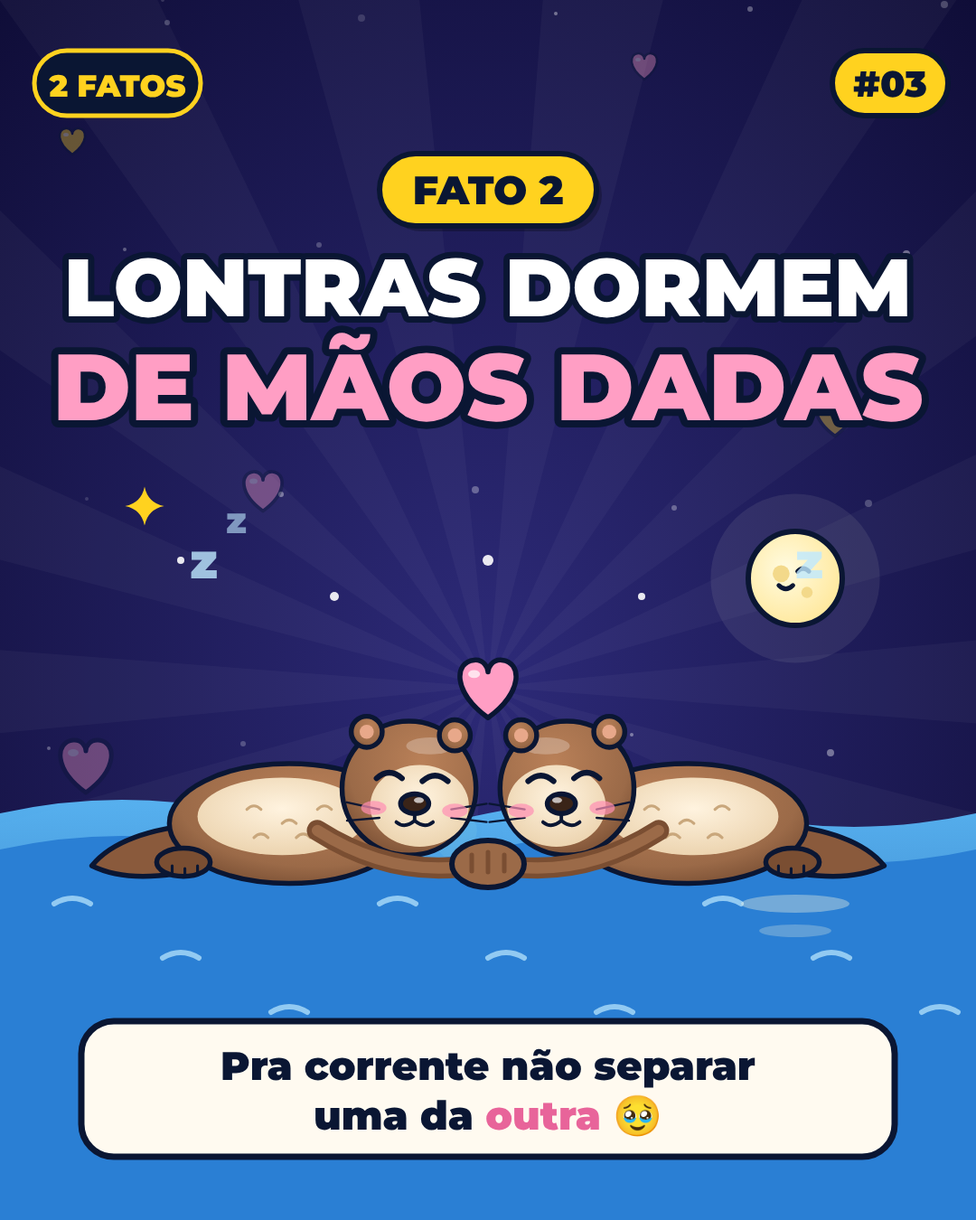
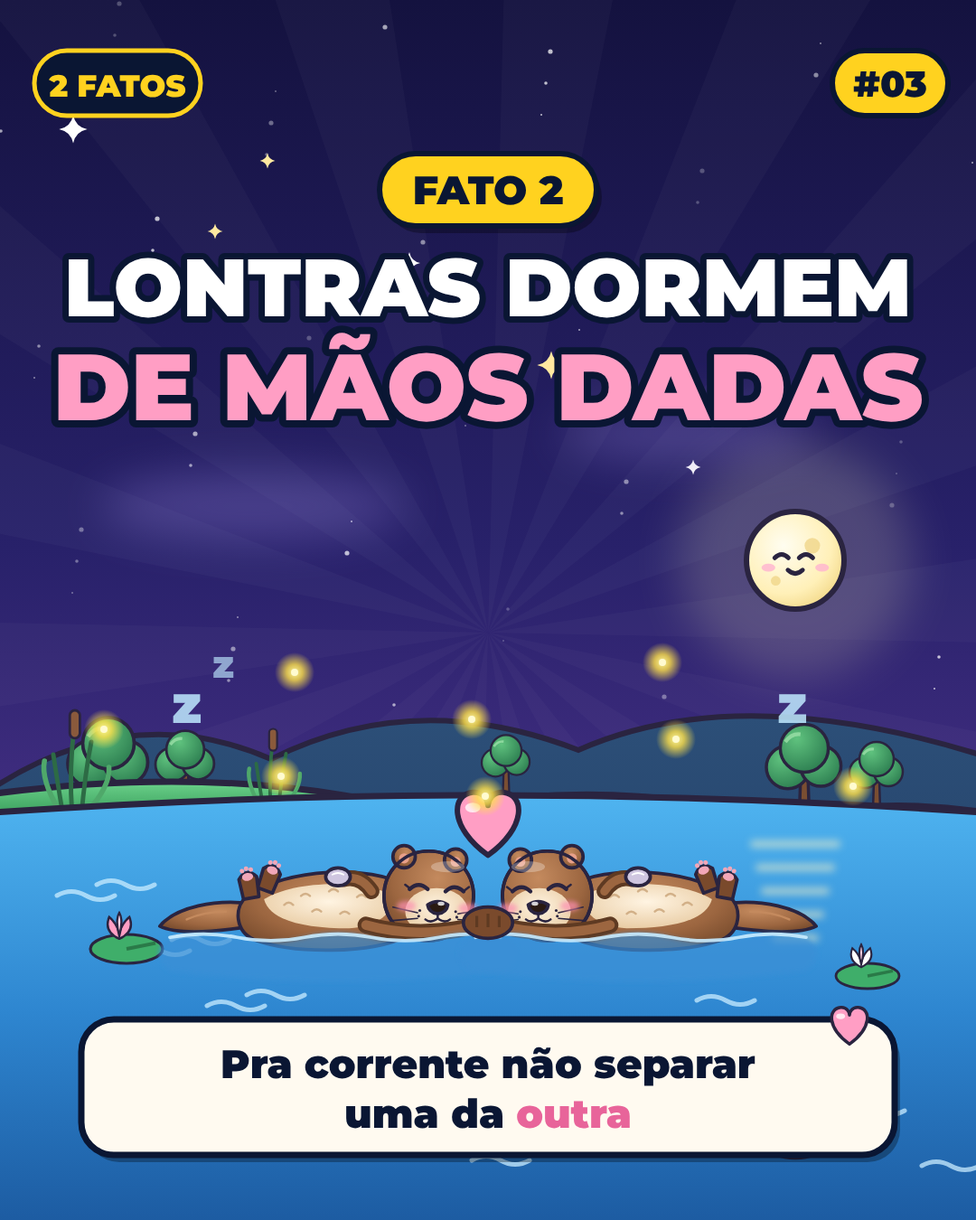
Carrossel fofinhos refeito com muito mais detalhe (paisagem noturna, vacas e lontras novas)
Claude-Session: https://claude.ai/code/session_01466fSmg3pKuf6zqbkMuRWf

diff --git a/carrosseis/01-fofinhos/gerar.js b/carrosseis/01-fofinhos/gerar.js
@@ -1,147 +1,183 @@
 const {chromium}=require('playwright');const fs=require('fs');
 const art=fs.readFileSync('/home/claude/oficina-remotion/src/art.js','utf8').replace(/export \{[^}]*\};?/,'');
 const font='data:font/woff2;base64,'+fs.readFileSync('/home/claude/oficina-remotion/public/fonts/mont900.woff2').toString('base64');
-const lib=`
-const W=1080,H=1350, PK='#ff9ec4', PKD='#e8649a', CR='#fff4e6', BLU='#7fd3ff';
-function fundo(seed){ let o=defsFofo()+'<defs><radialGradient id="cbg" cx=".5" cy=".55" r=".8"><stop offset="0" stop-color="#2d2a78"/><stop offset="1" stop-color="#0d0b33"/></radialGradient></defs><rect width="1080" height="1350" fill="url(#cbg)"/>';
-  for(let k=0;k<18;k++){const a=k*0.349+seed;o+='<path d="M540,760 L'+(540+Math.cos(a)*1600)+','+(760+Math.sin(a)*1600)+' L'+(540+Math.cos(a+0.17)*1600)+','+(760+Math.sin(a+0.17)*1600)+' Z" fill="#fff" opacity=".035"/>';}
-  for(let i=0;i<26;i++){const x=(i*173+seed*90)%1080,y=(i*271)%1350,r=2+i%3; o+='<circle cx="'+x+'" cy="'+y+'" r="'+r+'" fill="#fff" opacity="'+(.15+(i%4)*.08)+'"/>';}
-  for(let i=0;i<7;i++){const x=(i*211+60)%1040+20,y=(i*389+120)%1250+40,s=.5+(i%3)*.25; o+=coracao(x,y,s,i%2?PK:'#ffd21f',.35);}
-  return o; }
-function coracao(x,y,s,c,op=1){ return '<g transform="translate('+x+' '+y+') scale('+s+')" opacity="'+op+'"><path d="M0,22 C-36,-4 -34,-34 -14,-36 C-4,-37 0,-28 0,-24 C0,-28 4,-37 14,-36 C34,-34 36,-4 0,22 Z" fill="'+c+'" stroke="#0a1633" stroke-width="5" stroke-linejoin="round"/><ellipse cx="-14" cy="-22" rx="6" ry="4" fill="#fff" opacity=".7"/></g>'; }
-function canto(n){ return '<g transform="translate(985 92)"><rect x="-64" y="-36" width="128" height="72" rx="36" fill="#ffd21f" stroke="#0a1633" stroke-width="6"/><text y="15" font-family="M" font-weight="900" font-size="40" fill="#0a1633" text-anchor="middle">#'+n+'</text></g>'; }
-function marca(){ return '<g transform="translate(130 92)"><rect x="-92" y="-36" width="184" height="72" rx="36" fill="#0a1633" stroke="#ffd21f" stroke-width="5"/><text y="15" font-family="M" font-weight="900" font-size="34" fill="#ffd21f" text-anchor="middle">2 FATOS</text></g>'; }
-function pill(x,y,txt,bg,fg,sz=44,w){ w=w||txt.length*sz*.66+70; return '<g transform="translate('+x+' '+y+')"><rect x="'+(-w/2+6)+'" y="-34" width="'+w+'" height="80" rx="40" fill="#000" opacity=".25"/><rect x="'+(-w/2)+'" y="-40" width="'+w+'" height="80" rx="40" fill="'+bg+'" stroke="#0a1633" stroke-width="6"/><text y="'+(sz*.36)+'" font-family="M" font-weight="900" font-size="'+sz+'" fill="'+fg+'" text-anchor="middle">'+txt+'</text></g>'; }
-function seta(x,y){ return '<g transform="translate('+x+' '+y+')">'+fTxt(-30,14,'DESLIZA',44,'#fff','end',10)+'<path d="M0,0 h70 m-26,-26 l26,26 l-26,26" fill="none" stroke="#ffd21f" stroke-width="14" stroke-linecap="round" stroke-linejoin="round"/></g>'; }
-
-function defsFofo(){ return '<defs>'+
- '<radialGradient id="vBody" cx=".4" cy=".35" r=".75"><stop offset="0" stop-color="#ffffff"/><stop offset=".7" stop-color="#fbf4ec"/><stop offset="1" stop-color="#e6d8cc"/></radialGradient>'+
- '<radialGradient id="vSpot" cx=".35" cy=".3" r=".8"><stop offset="0" stop-color="#5a5276"/><stop offset="1" stop-color="#2a2540"/></radialGradient>'+
- '<radialGradient id="vSnout" cx=".45" cy=".35" r=".7"><stop offset="0" stop-color="#ffc4dc"/><stop offset=".7" stop-color="#ff9ec4"/><stop offset="1" stop-color="#ef7fae"/></radialGradient>'+
- '<radialGradient id="oFur" cx=".4" cy=".3" r=".8"><stop offset="0" stop-color="#b98058"/><stop offset=".7" stop-color="#9b6a48"/><stop offset="1" stop-color="#734a30"/></radialGradient>'+
- '<radialGradient id="oFace" cx=".5" cy=".4" r=".7"><stop offset="0" stop-color="#fff3df"/><stop offset="1" stop-color="#e9cfa8"/></radialGradient>'+
- '<linearGradient id="gGrass" x1="0" y1="0" x2="0" y2="1"><stop offset="0" stop-color="#6fd38a"/><stop offset="1" stop-color="#2f8f58"/></linearGradient>'+
- '<linearGradient id="gWater" x1="0" y1="0" x2="0" y2="1"><stop offset="0" stop-color="#5cc0ff"/><stop offset="1" stop-color="#1f5fb0"/></linearGradient>'+
- '<radialGradient id="gMoon" cx=".4" cy=".4" r=".6"><stop offset="0" stop-color="#fffbe0"/><stop offset="1" stop-color="#ffe9a0"/></radialGradient>'+
- '<radialGradient id="gGlow" cx=".5" cy=".5" r=".5"><stop offset="0" stop-color="#ff9ec4" stop-opacity=".35"/><stop offset="1" stop-color="#ff9ec4" stop-opacity="0"/></radialGradient>'+
+const lib=String.raw`
+const OL='#2a2440', PK='#ff9ec4', YL='#ffd21f';
+function R(n){ return Math.round(n*10)/10; }
+function defs(){ return '<defs>'+
+ '<linearGradient id="sky" x1="0" y1="0" x2="0" y2="1"><stop offset="0" stop-color="#14123f"/><stop offset=".45" stop-color="#28216a"/><stop offset=".75" stop-color="#4a3289"/><stop offset="1" stop-color="#7a4a9e"/></linearGradient>'+
+ '<filter id="b4" x="-50%" y="-50%" width="200%" height="200%"><feGaussianBlur stdDeviation="4"/></filter>'+
+ '<filter id="b10" x="-50%" y="-50%" width="200%" height="200%"><feGaussianBlur stdDeviation="10"/></filter>'+
+ '<filter id="b25" x="-50%" y="-50%" width="200%" height="200%"><feGaussianBlur stdDeviation="25"/></filter>'+
+ '<radialGradient id="moon" cx=".38" cy=".35" r=".7"><stop offset="0" stop-color="#fffdf0"/><stop offset=".7" stop-color="#fff0b8"/><stop offset="1" stop-color="#f3d98a"/></radialGradient>'+
+ '<linearGradient id="hFar" x1="0" y1="0" x2="0" y2="1"><stop offset="0" stop-color="#2c4f78"/><stop offset="1" stop-color="#1d3358"/></linearGradient>'+
+ '<linearGradient id="hMid" x1="0" y1="0" x2="0" y2="1"><stop offset="0" stop-color="#2f7d6a"/><stop offset="1" stop-color="#1f5a4c"/></linearGradient>'+
+ '<linearGradient id="hNear" x1="0" y1="0" x2="0" y2="1"><stop offset="0" stop-color="#6bd18a"/><stop offset=".5" stop-color="#43a865"/><stop offset="1" stop-color="#2d7f4b"/></linearGradient>'+
+ '<linearGradient id="water" x1="0" y1="0" x2="0" y2="1"><stop offset="0" stop-color="#4fb4f0"/><stop offset=".5" stop-color="#2e86d0"/><stop offset="1" stop-color="#1c5aa0"/></linearGradient>'+
+ '<linearGradient id="waterT" x1="0" y1="0" x2="0" y2="1"><stop offset="0" stop-color="#5cc0ff" stop-opacity=".85"/><stop offset="1" stop-color="#1c5aa0" stop-opacity=".95"/></linearGradient>'+
+ '<radialGradient id="tree" cx=".35" cy=".3" r=".8"><stop offset="0" stop-color="#5fc27e"/><stop offset="1" stop-color="#2a7a4e"/></radialGradient>'+
+ '<radialGradient id="cowW" cx=".38" cy=".3" r=".85"><stop offset="0" stop-color="#ffffff"/><stop offset=".6" stop-color="#f7f2f6"/><stop offset="1" stop-color="#d9cde4"/></radialGradient>'+
+ '<radialGradient id="cowS" cx=".35" cy=".3" r=".9"><stop offset="0" stop-color="#5d5580"/><stop offset="1" stop-color="#2a2440"/></radialGradient>'+
+ '<radialGradient id="cowP" cx=".45" cy=".3" r=".8"><stop offset="0" stop-color="#ffd3e4"/><stop offset=".6" stop-color="#ffa6c8"/><stop offset="1" stop-color="#ee7fae"/></radialGradient>'+
+ '<linearGradient id="horn" x1="0" y1="0" x2="1" y2="1"><stop offset="0" stop-color="#fff6d6"/><stop offset="1" stop-color="#e9c77e"/></linearGradient>'+
+ '<linearGradient id="hoof" x1="0" y1="0" x2="0" y2="1"><stop offset="0" stop-color="#8a6a5a"/><stop offset="1" stop-color="#4a3328"/></linearGradient>'+
+ '<radialGradient id="eye" cx=".4" cy=".35" r=".7"><stop offset="0" stop-color="#4a4070"/><stop offset="1" stop-color="#0d0b20"/></radialGradient>'+
+ '<radialGradient id="ofur" cx=".4" cy=".3" r=".85"><stop offset="0" stop-color="#c48a5e"/><stop offset=".6" stop-color="#9c6640"/><stop offset="1" stop-color="#6e4428"/></radialGradient>'+
+ '<radialGradient id="obel" cx=".5" cy=".4" r=".7"><stop offset="0" stop-color="#fff4e2"/><stop offset="1" stop-color="#e6c79c"/></radialGradient>'+
+ '<linearGradient id="wood" x1="0" y1="0" x2="0" y2="1"><stop offset="0" stop-color="#d9a46a"/><stop offset="1" stop-color="#a8733f"/></linearGradient>'+
+ '<radialGradient id="ff" cx=".5" cy=".5" r=".5"><stop offset="0" stop-color="#fff7a0"/><stop offset=".4" stop-color="#ffe14a" stop-opacity=".8"/><stop offset="1" stop-color="#ffe14a" stop-opacity="0"/></radialGradient>'+
+ '<radialGradient id="pglow" cx=".5" cy=".5" r=".5"><stop offset="0" stop-color="#ff9ec4" stop-opacity=".45"/><stop offset="1" stop-color="#ff9ec4" stop-opacity="0"/></radialGradient>'+
  '</defs>'; }
-function lua(x,y,r){ return '<circle cx="'+x+'" cy="'+y+'" r="'+(r*1.8)+'" fill="#fffbe0" opacity=".08"/><circle cx="'+x+'" cy="'+y+'" r="'+r+'" fill="url(#gMoon)" stroke="#0a1633" stroke-width="6"/><circle cx="'+(x-r*.3)+'" cy="'+(y-r*.1)+'" r="'+(r*.18)+'" fill="#f3d98a"/><circle cx="'+(x+r*.25)+'" cy="'+(y+r*.3)+'" r="'+(r*.12)+'" fill="#f3d98a"/><path d="M'+(x-r*.35)+','+(y+r*.15)+' q'+(r*.15)+','+(r*.15)+' '+(r*.3)+',0" fill="none" stroke="#0a1633" stroke-width="5" stroke-linecap="round"/><path d="M'+(x+r*.05)+','+(y-r*.15)+' q'+(r*.12)+','+(-r*.12)+' '+(r*.24)+',0" fill="none" stroke="#0a1633" stroke-width="5" stroke-linecap="round"/>'; }
-function brilho(x,y,s,c){ return '<path transform="translate('+x+' '+y+') scale('+s+')" d="M0,-24 Q4,-4 24,0 Q4,4 0,24 Q-4,4 -24,0 Q-4,-4 0,-24 Z" fill="'+c+'"/>'; }
-function flor(x,y,s,c){ let o='<g transform="translate('+x+' '+y+') scale('+s+')" stroke="#0a1633" stroke-width="4">'; for(let k=0;k<5;k++){const a=k*72*Math.PI/180; o+='<circle cx="'+(Math.cos(a)*14).toFixed(1)+'" cy="'+(Math.sin(a)*14).toFixed(1)+'" r="10" fill="'+c+'"/>';} return o+'<circle r="8" fill="#ffd21f"/></g>'; }
-function grama(y){ let o='<path d="M-20,'+(y+40)+' Q270,'+(y-40)+' 540,'+(y+10)+' T1100,'+(y-10)+' V1360 H-20 Z" fill="url(#gGrass)" stroke="#0a1633" stroke-width="7"/>';
- for(let i=0;i<40;i++){const x=(i*97)%1080, yy=y+40+(i*53)%220; o+='<path d="M'+x+','+yy+' l6,-22 l6,22" fill="none" stroke="#2a7a48" stroke-width="5" stroke-linecap="round"/>';}
- for(let i=0;i<9;i++) o+=flor((i*131+40)%1060,y+70+(i*71)%170,.9,['#ff9ec4','#ffffff','#bfe0ff'][i%3]);
+function ceu(seed){ let o='<rect width="1080" height="1350" fill="url(#sky)"/>';
+ for(let k=0;k<18;k++){const a=k*0.349+seed*.1; o+='<path d="M540,700 L'+R(540+Math.cos(a)*1700)+','+R(700+Math.sin(a)*1700)+' L'+R(540+Math.cos(a+0.17)*1700)+','+R(700+Math.sin(a+0.17)*1700)+' Z" fill="#fff" opacity=".028"/>';}
+ for(let i=0;i<60;i++){const x=(i*173+seed*61)%1080, y=(i*97+seed*37)%820; o+='<circle cx="'+x+'" cy="'+y+'" r="'+(1+i%3*.8)+'" fill="#fff" opacity="'+(.25+(i%5)*.12)+'"/>';}
+ for(let i=0;i<7;i++){const x=(i*157+seed*83+90)%1000+40, y=(i*113+seed*29)%600+120; o+=brilho(x,y,.35+(i%3)*.15,i%2?'#fff':'#ffe9a0');}
+ o+='<g filter="url(#b25)" opacity=".35"><ellipse cx="'+(200+seed*40)+'" cy="560" rx="170" ry="38" fill="#8a7ad0"/><ellipse cx="'+(820-seed*30)+'" cy="480" rx="140" ry="30" fill="#8a7ad0"/></g>';
  return o; }
-function cerca(y){ let o='<g stroke="#0a1633" stroke-width="6" fill="#d9a46a">'; for(let x=20;x<1080;x+=130) o+='<rect x="'+x+'" y="'+(y-90)+'" width="34" height="110" rx="8"/>'; o+='<rect x="0" y="'+(y-70)+'" width="1080" height="20" rx="8"/><rect x="0" y="'+(y-30)+'" width="1080" height="20" rx="8"/></g>'; return o; }
-
-// vaca fofinha (cx,cy,s, dir 1/-1, olhos: 'aberto'|'feliz')
-function vaca(cx,cy,s,dir=1,olhos='aberto',lenco=null){
-  let o='<g transform="translate('+cx+' '+cy+') scale('+(s*dir)+' '+s+')" stroke="#0a1633" stroke-width="7" stroke-linejoin="round" stroke-linecap="round">';
-  // corpo
-  o+='<path d="M-190,240 q-40,40 -70,20 q-10,-30 20,-40" fill="none" stroke-width="7"/><path d="M-262,262 q-24,-6 -20,-26 q18,4 20,26 Z" fill="#3a3550"/><ellipse cx="-10" cy="230" rx="185" ry="140" fill="url(#vBody)"/><path d="M-150,280 q140,60 290,0" fill="none" stroke="#e6d8cc" stroke-width="10" opacity=".8"/><path d="M-120,170 q40,-30 70,10 q-10,50 -60,40 q-30,-20 -10,-50 Z" fill="url(#vSpot)"/><path d="M60,260 q40,-20 60,20 q-20,40 -60,20 Z" fill="url(#vSpot)"/>';
-  o+='<rect x="-130" y="320" width="60" height="70" rx="26" fill="url(#vBody)"/><rect x="40" y="320" width="60" height="70" rx="26" fill="url(#vBody)"/><rect x="-130" y="360" width="60" height="30" rx="12" fill="#6b5a4e"/><rect x="40" y="360" width="60" height="30" rx="12" fill="#6b5a4e"/><path d="M-100,362 v26 M70,362 v26" stroke-width="5"/><rect x="-122" y="364" width="14" height="8" rx="4" fill="#a08878" stroke="none"/><rect x="48" y="364" width="14" height="8" rx="4" fill="#a08878" stroke="none"/>';
-  o+='<ellipse cx="0" cy="300" rx="60" ry="30" fill="url(#vSnout)"/><circle cx="-22" cy="318" r="7" fill="url(#vSnout)"/><circle cx="0" cy="324" r="7" fill="url(#vSnout)"/><circle cx="22" cy="318" r="7" fill="url(#vSnout)"/>';
-  // orelhas e chifres
-  o+='<path d="M-150,-40 q-90,-10 -100,40 q60,20 110,-10 Z" fill="#fffaf2"/><path d="M-160,-30 q-60,0 -70,30 q40,10 75,-10 Z" fill="'+PK+'" stroke="none"/>';
-  o+='<path d="M150,-40 q90,-10 100,40 q-60,20 -110,-10 Z" fill="#fffaf2"/><path d="M160,-30 q60,0 70,30 q-40,10 -75,-10 Z" fill="'+PK+'" stroke="none"/>';
-  o+='<path d="M-80,-120 q-20,-50 10,-70 q10,40 20,60 Z" fill="#ffe39a"/><path d="M80,-120 q20,-50 -10,-70 q-10,40 -20,60 Z" fill="#ffe39a"/>';
-  // cabeça
-  o+='<rect x="-160" y="-140" width="320" height="270" rx="130" fill="url(#vBody)"/><ellipse cx="-60" cy="-100" rx="60" ry="22" fill="#fff" opacity=".8" stroke="none"/>';
-  o+='<path d="M60,-136 q70,10 90,70 q-50,30 -90,-10 q-20,-40 0,-60 Z" fill="url(#vSpot)"/><path d="M-30,-140 q-20,-10 -50,0 q20,30 50,0 Z" fill="url(#vSpot)"/><ellipse cx="96" cy="-104" rx="16" ry="8" fill="#fff" opacity=".25" stroke="none"/>';
-  o+='<path d="M-20,-150 q20,-40 40,0" fill="none" stroke-width="6"/><path d="M0,-152 q10,-30 30,-10" fill="none" stroke-width="6"/>';
-  // focinho
-  o+='<ellipse cx="0" cy="70" rx="130" ry="78" fill="url(#vSnout)"/><ellipse cx="-30" cy="38" rx="44" ry="14" fill="#fff" opacity=".5" stroke="none"/><ellipse cx="-45" cy="70" rx="16" ry="22" fill="'+PKD+'"/><ellipse cx="45" cy="70" rx="16" ry="22" fill="'+PKD+'"/>';
-  o+='<path d="M-30,118 q30,22 60,0" fill="none" stroke-width="6"/>';
-  // olhos
-  if(olhos==='feliz') o+='<path d="M-110,-30 q35,-36 70,0" fill="none" stroke-width="11"/><path d="M40,-30 q35,-36 70,0" fill="none" stroke-width="11"/><path d="M-112,-32 l-14,-8 M-104,-44 l-10,-12 M108,-32 l14,-8 M100,-44 l10,-12" stroke-width="5"/>';
-  else o+='<ellipse cx="-75" cy="-30" rx="30" ry="36" fill="#0a1633"/><ellipse cx="75" cy="-30" rx="30" ry="36" fill="#0a1633"/><circle cx="-64" cy="-44" r="11" fill="#fff" stroke="none"/><circle cx="86" cy="-44" r="11" fill="#fff" stroke="none"/><circle cx="-84" cy="-18" r="5" fill="#fff" stroke="none"/><circle cx="66" cy="-18" r="5" fill="#fff" stroke="none"/>';
-  o+='<ellipse cx="-120" cy="20" rx="28" ry="16" fill="#ff7aa8" opacity=".6" stroke="none"/><ellipse cx="120" cy="20" rx="28" ry="16" fill="#ff7aa8" opacity=".6" stroke="none"/>';
-  // sininho / lenço
-  if(lenco) o+='<path d="M-110,130 q110,60 220,0 l-30,60 q-80,30 -160,0 Z" fill="'+lenco+'"/><path d="M-80,160 q80,36 160,0" fill="none" stroke="#fff" stroke-width="5" stroke-dasharray="10 12" opacity=".8"/><circle cx="0" cy="205" r="16" fill="'+lenco+'"/>';
-  else o+='<path d="M-60,140 q60,26 120,0" fill="none" stroke="#c9a227" stroke-width="12"/><circle cx="0" cy="175" r="30" fill="#ffd21f"/><circle cx="0" cy="186" r="7" fill="#0a1633" stroke="none"/>';
-  return o+'</g>'; }
-// lontra fofinha a flutuar de barriga para cima
-function lontra(cx,cy,s,dir=1,maoX=0){
-  let o='<g transform="translate('+cx+' '+cy+') scale('+(s*dir)+' '+s+')" stroke="#0a1633" stroke-width="7" stroke-linejoin="round" stroke-linecap="round">';
-  o+='<path d="M120,40 q120,10 160,60 q-60,30 -170,0 Z" fill="#8a5a3c"/>';
-  o+='<ellipse cx="0" cy="40" rx="170" ry="85" fill="url(#oFur)"/><ellipse cx="10" cy="30" rx="120" ry="55" fill="url(#oFace)" stroke="none"/><path d="M-60,20 q10,-10 20,0 M-10,40 q10,-10 20,0 M40,20 q10,-10 20,0 M-30,60 q10,-10 20,0 M30,60 q10,-10 20,0" fill="none" stroke="#c9a77c" stroke-width="4"/>';
-  o+='<ellipse cx="150" cy="95" rx="38" ry="20" fill="#7a4e32"/><path d="M130,100 v10 M148,104 v10 M166,100 v10" stroke-width="4"/>';
-  // cabeça
-  o+='<circle cx="-170" cy="-10" r="95" fill="url(#oFur)"/><ellipse cx="-185" cy="15" rx="70" ry="58" fill="url(#oFace)" stroke="none"/><ellipse cx="-200" cy="-70" rx="34" ry="12" fill="#fff" opacity=".25" stroke="none"/>';
-  o+='<circle cx="-235" cy="-85" r="22" fill="url(#oFur)"/><circle cx="-235" cy="-85" r="10" fill="#e8a88a" stroke="none"/><circle cx="-110" cy="-90" r="22" fill="url(#oFur)"/><circle cx="-110" cy="-90" r="10" fill="#e8a88a" stroke="none"/>';
-  o+='<path d="M-225,-20 q18,-16 36,0" fill="none" stroke-width="8"/><path d="M-160,-24 q18,-16 36,0" fill="none" stroke-width="8"/>';
-  o+='<ellipse cx="-178" cy="12" rx="20" ry="14" fill="#3a2418"/><ellipse cx="-184" cy="7" rx="7" ry="4" fill="#fff" opacity=".7" stroke="none"/><path d="M-178,26 v10 m0,0 q-14,12 -26,2 m26,-2 q14,12 26,2" fill="none" stroke-width="5"/>';
-  o+='<path d="M-230,20 l-50,-8 M-230,32 l-50,6 M-128,20 l46,-10 M-128,32 l46,4" stroke-width="3"/>';
-  o+='<ellipse cx="-235" cy="22" rx="18" ry="10" fill="#ff8fb4" opacity=".7" stroke="none"/><ellipse cx="-120" cy="18" rx="18" ry="10" fill="#ff8fb4" opacity=".7" stroke="none"/>';
-  if(maoX===-999){ o+='<path d="M-40,50 Q-150,120 -268,98" fill="none" stroke="#7a4e32" stroke-width="30"/><path d="M-40,50 Q-150,120 -268,98" fill="none" stroke="#9b6a48" stroke-width="16"/>'; return o+'</g>'; }
-  o+='<path d="M-70,-10 q'+(20+maoX)+',-60 '+(50+maoX)+',-70" fill="none" stroke="#7a4e32" stroke-width="30"/><path d="M-70,-10 q'+(20+maoX)+',-60 '+(50+maoX)+',-70" fill="none" stroke="#9b6a48" stroke-width="16"/>';
-  return o+'</g>'; }
-function agua(y,t){ let o='<path d="M0,'+y+' Q135,'+(y-30)+' 270,'+y+' T540,'+y+' T810,'+y+' T1080,'+y+' V1350 H0 Z" fill="url(#gWater)" opacity=".9"/><path d="M0,'+(y+40)+' Q135,'+(y+10)+' 270,'+(y+40)+' T540,'+(y+40)+' T810,'+(y+40)+' T1080,'+(y+40)+' V1350 H0 Z" fill="#2a7fd4"/>';
-  for(let i=0;i<9;i++) o+='<path d="M'+(60+i*120)+','+(y+100+(i%3)*60)+' q20,-12 40,0" fill="none" stroke="#bfe9ff" stroke-width="6" stroke-linecap="round" opacity=".7"/>';
-  return o; }
+function brilho(x,y,s,c){ return '<path transform="translate('+x+' '+y+') scale('+s+')" d="M0,-24 Q4,-4 24,0 Q4,4 0,24 Q-4,4 -24,0 Q-4,-4 0,-24 Z" fill="'+c+'"/>'; }
+function lua(x,y,r){ return '<circle cx="'+x+'" cy="'+y+'" r="'+(r*2.4)+'" fill="#fff4c0" opacity=".18" filter="url(#b25)"/><circle cx="'+x+'" cy="'+y+'" r="'+r+'" fill="url(#moon)" stroke="'+OL+'" stroke-width="6"/><circle cx="'+R(x+r*.35)+'" cy="'+R(y-r*.3)+'" r="'+R(r*.16)+'" fill="#f0d68a" opacity=".8"/><circle cx="'+R(x-r*.4)+'" cy="'+R(y+r*.42)+'" r="'+R(r*.1)+'" fill="#f0d68a" opacity=".8"/><path d="M'+R(x-r*.42)+','+R(y-r*.05)+' q'+R(r*.14)+','+R(-r*.14)+' '+R(r*.28)+',0 M'+R(x+r*.08)+','+R(y-r*.05)+' q'+R(r*.14)+','+R(-r*.14)+' '+R(r*.28)+',0" fill="none" stroke="'+OL+'" stroke-width="5" stroke-linecap="round"/><path d="M'+R(x-r*.15)+','+R(y+r*.2)+' q'+R(r*.15)+','+R(r*.14)+' '+R(r*.3)+',0" fill="none" stroke="'+OL+'" stroke-width="5" stroke-linecap="round"/><ellipse cx="'+R(x-r*.55)+'" cy="'+R(y+r*.15)+'" rx="'+R(r*.14)+'" ry="'+R(r*.08)+'" fill="#ffb3cf" opacity=".8"/><ellipse cx="'+R(x+r*.55)+'" cy="'+R(y+r*.15)+'" rx="'+R(r*.14)+'" ry="'+R(r*.08)+'" fill="#ffb3cf" opacity=".8"/>'; }
+function arvore(x,y,s){ return '<g transform="translate('+x+' '+y+') scale('+s+')" stroke="'+OL+'" stroke-width="5"><path d="M-8,0 L-6,-60 L6,-60 L8,0 Z" fill="#7a4e32"/><circle cx="-26" cy="-80" r="34" fill="url(#tree)"/><circle cx="26" cy="-82" r="32" fill="url(#tree)"/><circle cx="0" cy="-110" r="38" fill="url(#tree)"/><path d="M-30,-120 q10,-14 24,-12" fill="none" stroke="#9be0a8" stroke-width="6" opacity=".8"/></g>'; }
+function vagalumes(seed,n=12,y0=760,y1=1200){ let o=''; for(let i=0;i<n;i++){const x=(i*211+seed*97)%1040+20, y=y0+((i*137+seed*53)%(y1-y0)); o+='<circle cx="'+x+'" cy="'+y+'" r="22" fill="url(#ff)"/><circle cx="'+x+'" cy="'+y+'" r="4" fill="#fffbd0"/>';} return o; }
+function montes(){ let o='<path d="M-20,880 Q140,770 300,840 Q460,760 640,830 Q820,750 1100,840 V1360 H-20 Z" fill="url(#hFar)" stroke="'+OL+'" stroke-width="6"/>';
+ o+='<path d="M-20,930 Q200,840 420,910 Q640,850 860,905 Q980,880 1100,900 V1360 H-20 Z" fill="url(#hMid)" stroke="'+OL+'" stroke-width="6"/>';
+ o+=arvore(120,905,.75)+arvore(205,890,.55)+arvore(890,905,.7)+arvore(970,895,.5)+arvore(560,880,.45);
+ return o; }
+function relva(path){ return '<path d="'+path+'" fill="url(#hNear)" stroke="'+OL+'" stroke-width="7"/>'; }
+function folhas(x0,x1,y0,y1,n,seed){ let o=''; const C=['#2d7f4b','#3c9a5c','#5cc078']; for(let i=0;i<n;i++){const x=x0+((i*97+seed*31)%(x1-x0)), y=y0+((i*53+seed*17)%(y1-y0)); const h=14+(i%4)*5; o+='<path d="M'+x+','+y+' q'+(-3+(i%3)*3)+','+(-h)+' '+(2+(i%2)*3)+','+(-h-6)+' M'+(x+6)+','+y+' q'+(4)+','+(-h*.8)+' '+(10)+','+(-h)+'" fill="none" stroke="'+C[i%3]+'" stroke-width="4" stroke-linecap="round"/>';} return o; }
+function flor(x,y,s,c){ let o='<g transform="translate('+x+' '+y+') scale('+s+')"><path d="M0,10 q-4,24 2,40" stroke="#2d7f4b" stroke-width="5" fill="none"/><path d="M0,30 q-18,-6 -22,6 q12,8 22,-6 Z" fill="#4fb06e" stroke="'+OL+'" stroke-width="3"/>'; for(let k=0;k<6;k++){const a=k*60*Math.PI/180; o+='<ellipse cx="'+R(Math.cos(a)*13)+'" cy="'+R(Math.sin(a)*13)+'" rx="10" ry="7" transform="rotate('+(k*60)+' '+R(Math.cos(a)*13)+' '+R(Math.sin(a)*13)+')" fill="'+c+'" stroke="'+OL+'" stroke-width="3"/>';} return o+'<circle r="8" fill="'+YL+'" stroke="'+OL+'" stroke-width="3"/><circle cx="-2" cy="-2" r="3" fill="#fff" opacity=".8"/></g>'; }
+function pedra(x,y,s){ return '<g transform="translate('+x+' '+y+') scale('+s+')"><path d="M-40,10 Q-38,-26 0,-30 Q40,-28 44,6 Q30,22 -30,22 Z" fill="#8c86a8" stroke="'+OL+'" stroke-width="5"/><path d="M-20,-18 q16,-8 32,-2" fill="none" stroke="#c9c4df" stroke-width="5" stroke-linecap="round"/></g>'; }
+function junco(x,y,s){ return '<g transform="translate('+x+' '+y+') scale('+s+')" stroke-linecap="round"><path d="M0,0 Q-6,-80 4,-150 M14,0 Q20,-70 30,-120 M-14,0 Q-24,-60 -30,-100" fill="none" stroke="#2d6b45" stroke-width="7"/><rect x="-4" y="-170" width="16" height="44" rx="8" fill="#8a5a3c" stroke="'+OL+'" stroke-width="4"/><path d="M-20,-10 Q-50,-60 -44,-90 M24,-10 Q60,-50 58,-80" fill="none" stroke="#4fa86a" stroke-width="8"/></g>'; }
+function nenufar(x,y,s,florC){ let o='<g transform="translate('+x+' '+y+') scale('+s+')"><path d="M0,0 m-50,0 a50,20 0 1,0 100,0 a50,20 0 1,0 -100,0 Z" fill="#3fae6a" stroke="'+OL+'" stroke-width="4"/><path d="M0,0 L40,-8" stroke="#2a7a48" stroke-width="5"/>'; if(florC) o+='<g transform="translate(-10 -14)"><path d="M0,0 Q-22,-10 -14,-30 Q-4,-22 0,-8 Q4,-22 14,-30 Q22,-10 0,0 Z" fill="'+florC+'" stroke="'+OL+'" stroke-width="3"/><path d="M0,-4 Q-6,-26 0,-36 Q6,-26 0,-4 Z" fill="#ffd3e4" stroke="'+OL+'" stroke-width="3"/></g>'; return o+'</g>'; }
+function coracao(x,y,s,c,op=1){ return '<g transform="translate('+x+' '+y+') scale('+s+')" opacity="'+op+'"><path d="M0,22 C-36,-4 -34,-34 -14,-36 C-4,-37 0,-28 0,-24 C0,-28 4,-37 14,-36 C34,-34 36,-4 0,22 Z" fill="'+c+'" stroke="'+OL+'" stroke-width="5" stroke-linejoin="round"/><ellipse cx="-14" cy="-22" rx="7" ry="4.5" fill="#fff" opacity=".75"/></g>'; }
+// ---------- VACA ----------
+function vaca(cx,cy,s,dir=1,o2={}){ const hr=o2.hr||0, lenco=o2.lenco||null, coroa=o2.coroa||false, olho=o2.olho||'feliz';
+ let o='<g transform="translate('+cx+' '+cy+') scale('+(s*dir)+' '+s+')" stroke="'+OL+'" stroke-width="6" stroke-linejoin="round" stroke-linecap="round">';
+ o+='<ellipse cx="0" cy="345" rx="190" ry="26" fill="#000" opacity=".28" stroke="none" filter="url(#b10)"/>';
+ // cauda
+ o+='<path d="M140,140 C200,120 230,60 210,20" fill="none" stroke-width="10"/><path d="M140,140 C200,120 230,60 210,20" fill="none" stroke="#f3eef7" stroke-width="4"/><path d="M196,26 C188,-6 222,-16 232,8 C240,26 222,40 210,30 Z" fill="url(#cowS)"/>';
+ // pernas traseiras
+ o+='<rect x="-150" y="215" width="54" height="110" rx="24" fill="#d9cde4"/><rect x="96" y="215" width="54" height="110" rx="24" fill="#d9cde4"/><path d="M-150,300 h54 v14 q0,14 -14,14 h-26 q-14,0 -14,-14 Z" fill="url(#hoof)"/><path d="M96,300 h54 v14 q0,14 -14,14 h-26 q-14,0 -14,-14 Z" fill="url(#hoof)"/>';
+ // corpo
+ o+='<path d="M-155,70 C-180,190 -130,300 0,302 C130,300 180,190 155,70 C120,10 -120,10 -155,70 Z" fill="url(#cowW)"/>';
+ o+='<path d="M-140,120 C-120,90 -80,100 -78,130 C-76,170 -120,180 -136,160 Z" fill="url(#cowS)"/><path d="M70,190 C100,170 140,180 140,210 C140,240 100,248 80,232 C64,220 60,200 70,190 Z" fill="url(#cowS)"/>';
+ o+='<ellipse cx="0" cy="235" rx="62" ry="34" fill="#f0e6f2" stroke="none"/><path d="M-120,230 q120,70 240,0" fill="none" stroke="#d9cde4" stroke-width="6" opacity=".8"/>';
+ o+='<path d="M-60,95 q-30,40 -20,90" fill="none" stroke="#fff" stroke-width="10" opacity=".6"/>';
+ // pernas da frente
+ for(const lx of [-72,72]){ o+='<rect x="'+(lx-30)+'" y="235" width="60" height="100" rx="26" fill="url(#cowW)"/><path d="M'+(lx-30)+',304 h60 v14 q0,16 -16,16 h-28 q-16,0 -16,-16 Z" fill="url(#hoof)"/><path d="M'+lx+',306 v28" stroke-width="5"/><path d="M'+(lx-20)+',310 h12" stroke="#c9a898" stroke-width="5"/>'; }
+ // lenço/sino
+ if(lenco) o+='<path d="M-118,38 Q0,98 118,38 L96,96 Q0,140 -96,96 Z" fill="'+lenco+'"/><path d="M-96,62 Q0,112 96,62" fill="none" stroke="#fff" stroke-width="5" stroke-dasharray="10 12" opacity=".85"/><path d="M-14,118 l-26,46 l34,-8 Z M14,118 l26,46 l-34,-8 Z" fill="'+lenco+'"/><circle cx="0" cy="118" r="18" fill="'+lenco+'"/><circle cx="-6" cy="112" r="5" fill="#fff" opacity=".7" stroke="none"/>';
+ else o+='<path d="M-110,40 Q0,96 110,40" fill="none" stroke="#c0392b" stroke-width="14"/><path d="M-26,86 Q-28,140 0,142 Q28,140 26,86 Q0,76 -26,86 Z" fill="'+YL+'"/><circle cx="0" cy="138" r="7" fill="'+OL+'"/><path d="M-12,96 q-4,20 2,34" fill="none" stroke="#fff6c0" stroke-width="5"/>';
+ // cabeça
+ o+='<g transform="rotate('+hr+' 0 0)">';
+ // orelhas
+ for(const sx of [-1,1]){ o+='<g transform="translate('+(sx*168)+' -150) rotate('+(sx*-22)+')"><ellipse rx="62" ry="27" fill="url(#cowW)"/><ellipse cx="'+(sx*6)+'" rx="42" ry="14" fill="url(#cowP)" stroke="none"/></g>'; }
+ // chifres
+ for(const sx of [-1,1]){ o+='<g transform="scale('+sx+' 1)"><path d="M-92,-226 C-118,-270 -96,-312 -62,-304 C-74,-284 -72,-258 -58,-238 Z" fill="url(#horn)"/><path d="M-96,-262 q16,6 30,0 M-90,-282 q12,5 24,0" fill="none" stroke="#c9a85a" stroke-width="4"/></g>'; }
+ o+='<path d="M-150,-120 C-162,-212 -92,-252 0,-252 C92,-252 162,-212 150,-120 C150,-38 108,12 0,14 C-108,12 -150,-38 -150,-120 Z" fill="url(#cowW)"/>';
+ o+='<path d="M54,-246 C110,-238 150,-200 148,-150 C120,-140 80,-150 64,-180 C52,-204 40,-230 54,-246 Z" fill="url(#cowS)"/><path d="M-120,-200 C-104,-214 -80,-206 -84,-186 C-90,-170 -114,-172 -120,-184 Z" fill="url(#cowS)"/>';
+ o+='<ellipse cx="-62" cy="-214" rx="46" ry="14" fill="#fff" opacity=".85" stroke="none"/>';
+ // franja
+ o+='<path d="M-34,-246 C-40,-282 -6,-292 2,-266 C8,-292 44,-288 36,-252 C26,-232 -26,-230 -34,-246 Z" fill="url(#cowS)"/><path d="M-14,-266 q8,-10 16,-4" fill="none" stroke="#8a80b0" stroke-width="4"/>';
+ if(coroa){ for(let k=0;k<5;k++){const a=(-150+k*30)*Math.PI/180; o+=flor(R(Math.cos(a)*150),R(-140+Math.sin(a)*110),.9,['#ffffff','#ff9ec4','#bfe0ff','#ffffff','#ff9ec4'][k]);} }
+ // olhos
+ if(olho==='feliz'){ for(const ex of [-60,60]){ o+='<path d="M'+(ex-30)+',-112 Q'+ex+',-150 '+(ex+30)+',-112" fill="none" stroke-width="11"/><path d="M'+(ex-32)+',-114 l-12,-10 M'+(ex-24)+',-128 l-8,-14 M'+(ex+32)+',-114 l12,-10 M'+(ex+24)+',-128 l8,-14" stroke-width="5"/>'; } }
+ else { for(const ex of [-60,60]){ o+='<ellipse cx="'+ex+'" cy="-118" rx="28" ry="34" fill="url(#eye)"/><circle cx="'+(ex+9)+'" cy="-132" r="11" fill="#fff" stroke="none"/><circle cx="'+(ex-9)+'" cy="-104" r="5" fill="#fff" stroke="none"/><path d="M'+(ex-22)+',-160 q22,-12 44,0" fill="none" stroke-width="6"/>'; } }
+ o+='<ellipse cx="-112" cy="-72" rx="30" ry="17" fill="#ff8fb8" opacity=".65" stroke="none" filter="url(#b4)"/><ellipse cx="112" cy="-72" rx="30" ry="17" fill="#ff8fb8" opacity=".65" stroke="none" filter="url(#b4)"/>';
+ // focinho
+ o+='<ellipse cx="0" cy="-36" rx="112" ry="62" fill="url(#cowP)"/><ellipse cx="-26" cy="-74" rx="52" ry="14" fill="#fff" opacity=".6" stroke="none"/>';
+ o+='<ellipse cx="-40" cy="-42" rx="14" ry="19" fill="#d65a8c"/><ellipse cx="40" cy="-42" rx="14" ry="19" fill="#d65a8c"/><ellipse cx="-42" cy="-38" rx="6" ry="9" fill="#9e2f5e" stroke="none"/><ellipse cx="38" cy="-38" rx="6" ry="9" fill="#9e2f5e" stroke="none"/>';
+ o+='<path d="M-30,-6 Q0,18 30,-6" fill="none" stroke-width="6"/><path d="M-12,4 Q0,20 12,4" fill="#ff6f9c" stroke-width="4"/>';
+ o+='</g>';
+ return o+'</g>'; }
+// ---------- LONTRA (a flutuar de barriga para cima; cabeça à esquerda; dir=-1 vira) ----------
+function lontra(cx,cy,s,dir=1,o2={}){ const mao=o2.mao||'dada', agua=o2.agua!==false;
+ let o='<g transform="translate('+cx+' '+cy+') scale('+(s*dir)+' '+s+')" stroke="'+OL+'" stroke-width="6" stroke-linejoin="round" stroke-linecap="round">';
+ o+='<path d="M140,-6 C220,-20 292,0 318,32 C286,48 212,42 140,30 Z" fill="url(#ofur)"/><path d="M200,6 q40,0 70,14" fill="none" stroke="#c48a5e" stroke-width="4"/>';
+ o+='<path d="M-120,-40 C-60,-78 92,-72 162,-22 C188,0 182,42 150,56 C80,82 -60,82 -122,50 Z" fill="url(#ofur)"/>';
+ o+='<path d="M-100,-22 C-40,-54 82,-48 132,-16 C122,22 60,36 -20,36 C-70,32 -100,10 -100,-22 Z" fill="url(#obel)" stroke="none"/>';
+ for(const [fx,fy] of [[-50,-20],[0,-30],[50,-22],[-20,10],[30,6],[80,-6]]) o+='<path d="M'+fx+','+fy+' q8,-8 16,0" fill="none" stroke="#d2b088" stroke-width="4"/>';
+ // patas de trás levantadas
+ for(const [px,py,r] of [[120,-60,-20],[160,-48,10]]){ o+='<g transform="translate('+px+' '+py+') rotate('+r+')"><path d="M-14,30 L-16,-6 Q0,-26 16,-6 L14,30 Z" fill="#7a4a2c"/><ellipse cx="0" cy="-8" rx="10" ry="7" fill="#f2a7b8" stroke="none"/><circle cx="-8" cy="-20" r="4" fill="#f2a7b8" stroke="none"/><circle cx="0" cy="-23" r="4" fill="#f2a7b8" stroke="none"/><circle cx="8" cy="-20" r="4" fill="#f2a7b8" stroke="none"/></g>'; }
+ // cabeça
+ o+='<circle cx="-162" cy="-22" r="80" fill="url(#ofur)"/>';
+ for(const [ex,ey] of [[-210,-86],[-118,-92]]) o+='<circle cx="'+ex+'" cy="'+ey+'" r="20" fill="url(#ofur)"/><circle cx="'+ex+'" cy="'+(ey+3)+'" r="9" fill="#e8a08a" stroke="none"/>';
+ o+='<circle cx="-162" cy="-22" r="80" fill="none"/>';
+ o+='<ellipse cx="-176" cy="6" rx="56" ry="42" fill="url(#obel)" stroke="none"/><ellipse cx="-196" cy="-74" rx="30" ry="10" fill="#fff" opacity=".28" stroke="none"/>';
+ o+='<path d="M-224,-30 q16,-15 32,0 M-160,-34 q16,-15 32,0" fill="none" stroke-width="7"/><path d="M-226,-32 l-8,-6 M-128,-36 l8,-6" stroke-width="4"/>';
+ o+='<path d="M-196,-6 Q-178,-18 -160,-6 Q-162,8 -178,10 Q-194,8 -196,-6 Z" fill="#2a1a12"/><ellipse cx="-184" cy="-8" rx="6" ry="3.5" fill="#fff" opacity=".8" stroke="none"/>';
+ o+='<path d="M-178,10 v8 M-178,18 q-12,10 -22,2 M-178,18 q12,10 22,2" fill="none" stroke-width="4"/>';
+ for(const [dx,dy] of [[-210,6],[-212,16],[-146,4],[-144,14]]) o+='<circle cx="'+dx+'" cy="'+dy+'" r="2.5" fill="'+OL+'" stroke="none"/>';
+ o+='<path d="M-214,10 l-46,-8 M-214,20 l-46,6 M-142,8 l44,-10 M-142,18 l44,4" stroke-width="2.5"/>';
+ o+='<ellipse cx="-232" cy="0" rx="17" ry="9" fill="#ff8fb4" opacity=".7" stroke="none" filter="url(#b4)"/><ellipse cx="-122" cy="-4" rx="17" ry="9" fill="#ff8fb4" opacity=".7" stroke="none" filter="url(#b4)"/>';
+ // braços
+ if(mao==='dada'){ o+='<path d="M-50,30 Q-150,58 -268,26" fill="none" stroke="#5e3a22" stroke-width="30"/><path d="M-50,30 Q-150,58 -268,26" fill="none" stroke="#9c6640" stroke-width="17"/>'; }
+ o+='<path d="M-60,-30 Q-40,-60 -10,-52" fill="none" stroke="#5e3a22" stroke-width="28"/><path d="M-60,-30 Q-40,-60 -10,-52" fill="none" stroke="#9c6640" stroke-width="15"/><ellipse cx="0" cy="-56" rx="22" ry="16" fill="#cfc6e0"/><path d="M-10,-60 q10,-6 20,0" fill="none" stroke="#fff" stroke-width="3"/>';
+ if(agua){ o+='<path d="M-300,52 Q-240,36 -180,52 T-60,52 T60,52 T180,52 T300,52 Q340,80 300,112 Q0,150 -300,112 Q-340,80 -300,52 Z" fill="#3a8fd6" opacity=".7" stroke="none" filter="url(#b4)"/><path d="M-290,52 Q-240,40 -180,52 T-60,52 T60,52 T180,52 T300,52" fill="none" stroke="#c9ecff" stroke-width="6" opacity=".9"/>'; }
+ return o+'</g>'; }
+function maos(x,y,s){ return '<g transform="translate('+x+' '+y+') scale('+s+')" stroke="'+OL+'" stroke-width="6"><ellipse rx="44" ry="28" fill="#7a4a2c"/><path d="M-20,-12 v20 M0,-16 v24 M20,-12 v20" stroke="#5e3a22" stroke-width="5"/></g>'; }
+function rio(path){ return '<path d="'+path+'" fill="url(#water)" stroke="'+OL+'" stroke-width="7"/>'; }
+function ondas(x0,x1,y0,y1,n,seed){ let o=''; for(let i=0;i<n;i++){const x=x0+((i*83+seed*29)%(x1-x0)), y=y0+((i*61+seed*13)%(y1-y0)); o+='<path d="M'+x+','+y+' q16,-9 32,0 q16,9 32,0" fill="none" stroke="#c9ecff" stroke-width="5" stroke-linecap="round" opacity=".75"/>';} return o; }
+function reflexo(x,y){ let o='<g filter="url(#b4)" opacity=".55">'; for(let i=0;i<5;i++) o+='<rect x="'+(x-50+i*6)+'" y="'+(y+i*26)+'" width="'+(100-i*12)+'" height="8" rx="4" fill="#fff6c8"/>'; return o+'</g>'; }
+// ---------- UI ----------
+function marca(){ return '<g transform="translate(130 92)"><rect x="-92" y="-36" width="184" height="72" rx="36" fill="#0a1633" stroke="'+YL+'" stroke-width="5"/><text y="15" font-family="M" font-weight="900" font-size="34" fill="'+YL+'" text-anchor="middle">2 FATOS</text></g>'; }
+function canto(n){ return '<g transform="translate(985 92)"><rect x="-64" y="-36" width="128" height="72" rx="36" fill="'+YL+'" stroke="#0a1633" stroke-width="6"/><text y="15" font-family="M" font-weight="900" font-size="40" fill="#0a1633" text-anchor="middle">#'+n+'</text></g>'; }
+function pill(x,y,txt,bg,fg,sz,w){ w=w||txt.length*sz*.66+70; return '<g transform="translate('+x+' '+y+')"><rect x="'+(-w/2+6)+'" y="-32" width="'+w+'" height="80" rx="40" fill="#000" opacity=".3"/><rect x="'+(-w/2)+'" y="-40" width="'+w+'" height="80" rx="40" fill="'+bg+'" stroke="#0a1633" stroke-width="6"/><text y="'+R(sz*.36)+'" font-family="M" font-weight="900" font-size="'+sz+'" fill="'+fg+'" text-anchor="middle">'+txt+'</text></g>'; }
+function caixa(l1,l2){ return '<rect x="96" y="1136" width="900" height="150" rx="36" fill="#000" opacity=".3"/><rect x="90" y="1128" width="900" height="150" rx="36" fill="#fffaf0" stroke="#0a1633" stroke-width="7"/><text x="540" y="1193" font-family="M" font-weight="900" font-size="44" fill="#0a1633" text-anchor="middle">'+l1+'</text><text x="540" y="1248" font-family="M" font-weight="900" font-size="44" fill="#0a1633" text-anchor="middle">'+l2+'</text>'+coracao(940,1140,.7,PK); }
 `;
 const S=[];
-// 1 · CAPA — vale com a vaca + rio com as lontras
-S.push(`(()=>{let o=fundo(0)+marca()+canto('01');
- o+=fTxt(540,280,'2 FATOS',92,'#fff')+fTxt(540,410,'FOFINHOS',150,'#ff9ec4','middle',18);
- o+=pill(540,515,'QUE VÃO TE DERRETER','#ffd21f','#0a1633',44);
- o+=lua(880,640,56)+brilho(140,620,1,'#ffd21f')+brilho(700,600,.6,'#fff');
- // montes ao fundo
- o+='<path d="M-20,900 Q160,760 360,860 Q520,740 720,850 Q900,760 1100,860 V1360 H-20 Z" fill="#2f7a5a" stroke="#0a1633" stroke-width="7"/>';
- o+='<g stroke="#0a1633" stroke-width="6"><rect x="168" y="800" width="16" height="50" fill="#7a4e32"/><circle cx="176" cy="790" r="40" fill="#3fae6a"/><rect x="928" y="805" width="16" height="45" fill="#7a4e32"/><circle cx="936" cy="795" r="36" fill="#3fae6a"/></g>';
- // vale
- o+='<path d="M-20,960 Q300,880 640,940 Q800,970 900,1000 L760,1360 H-20 Z" fill="url(#gGrass)" stroke="#0a1633" stroke-width="7"/>';
- for(let i=0;i<26;i++){const x=(i*61)%720, yy=1000+(i*47)%300; o+='<path d="M'+x+','+yy+' l6,-22 l6,22" fill="none" stroke="#2a7a48" stroke-width="5" stroke-linecap="round"/>';}
- for(let i=0;i<7;i++) o+=flor((i*97+30)%660,1040+(i*61)%230,.9,['#ff9ec4','#ffffff','#bfe0ff'][i%3]);
- // rio
- o+='<path d="M640,900 Q760,930 820,960 Q930,1010 1100,1000 V1360 H560 Q700,1200 760,1100 Q790,1030 700,960 Z" fill="url(#gWater)" stroke="#0a1633" stroke-width="7"/>';
- for(let i=0;i<7;i++) o+='<path d="M'+(700+i*55)+','+(1010+(i%3)*70)+' q18,-10 36,0" fill="none" stroke="#bfe9ff" stroke-width="6" stroke-linecap="round" opacity=".8"/>';
- o+='<ellipse cx="900" cy="1060" rx="46" ry="8" fill="#fffbe0" opacity=".35"/>';
- // vaca no vale
- o+='<circle cx="320" cy="920" r="260" fill="url(#gGlow)"/>'+vaca(320,860,.72,1,'feliz','#ff9ec4');
- // lontras no rio de mãos dadas
- o+=lontra(790,1120,.5,-1,-999)+lontra(1058,1120,.5,1,-999);
- o+='<ellipse cx="924" cy="1170" rx="26" ry="17" fill="#9b6a48" stroke="#0a1633" stroke-width="5"/>';
- o+=coracao(924,1050,.8,'#ff9ec4')+coracao(470,660,1.1,'#ff9ec4')+coracao(560,620,.6,'#ffd21f');
- // DESLIZA grande
- o+='<g transform="translate(540 1262)"><rect x="-306" y="-58" width="612" height="116" rx="58" fill="#000" opacity=".3" transform="translate(6 8)"/><rect x="-306" y="-58" width="612" height="116" rx="58" fill="#ffd21f" stroke="#0a1633" stroke-width="8"/><text x="-40" y="24" font-family="M" font-weight="900" font-size="72" fill="#0a1633" text-anchor="middle">DESLIZA</text><path d="M150,0 h100 m-36,-36 l36,36 l-36,36" fill="none" stroke="#0a1633" stroke-width="18" stroke-linecap="round" stroke-linejoin="round"/></g>';
+S.push(`(()=>{let o=defs()+ceu(0)+lua(880,640,58)+montes();
+ o+=relva('M-20,975 Q260,900 600,950 Q760,975 860,1010 L720,1360 H-20 Z');
+ o+=rio('M610,925 Q760,940 830,975 Q950,1025 1100,1010 V1360 H520 Q660,1210 720,1110 Q752,1040 680,975 Z');
+ o+=ondas(700,1060,1040,1250,9,1)+reflexo(900,1040)+nenufar(1010,1210,.7,'#ff9ec4')+nenufar(760,1240,.55,null);
+ o+=folhas(10,640,1000,1300,70,1)+junco(640,1010,.6)+junco(560,1180,.7)+pedra(690,1240,.8)+pedra(600,1300,.6);
+ for(let i=0;i<8;i++) o+=flor((i*79+30)%560,1050+(i*57)%220,.8,['#ff9ec4','#ffffff','#bfe0ff','#ffe9a0'][i%4]);
+ o+='<circle cx="300" cy="930" r="290" fill="url(#pglow)"/>'+vaca(300,880,.66,1,{lenco:'#ff9ec4',coroa:true});
+ o+=lontra(790,1125,.48,-1)+lontra(1058,1125,.48,1)+maos(924,1138,.5)+coracao(924,1050,.8,PK);
+ o+=vagalumes(1,10,760,1200);
+ o+=marca()+canto('01');
+ o+=fTxt(540,280,'2 FATOS',92,'#fff')+fTxt(540,410,'FOFINHOS',150,PK,'middle',18);
+ o+=pill(540,515,'QUE VÃO TE DERRETER',YL,'#0a1633',44);
+ o+='<g transform="translate(540 1262)"><rect x="-300" y="-50" width="612" height="116" rx="58" fill="#000" opacity=".35"/><rect x="-306" y="-58" width="612" height="116" rx="58" fill="'+YL+'" stroke="#0a1633" stroke-width="8"/><text x="-40" y="24" font-family="M" font-weight="900" font-size="72" fill="#0a1633" text-anchor="middle">DESLIZA</text><path d="M150,0 h100 m-36,-36 l36,36 l-36,36" fill="none" stroke="#0a1633" stroke-width="18" stroke-linecap="round" stroke-linejoin="round"/></g>';
  return o;})()`);
-// 2 · FATO 1 — vacas
-S.push(`(()=>{let o=fundo(1)+marca()+canto('02');
- o+=pill(540,210,'FATO 1','#ffd21f','#0a1633',44,240);
- o+=fTxt(540,350,'VACAS TÊM',96,'#fff')+fTxt(540,465,'MELHOR AMIGA',104,'#ff9ec4','middle',16);
- o+=lua(150,640,48)+brilho(950,620,.9,'#ffd21f')+cerca(960)+grama(990);
- o+='<circle cx="540" cy="860" r="340" fill="url(#gGlow)"/>';
- o+=vaca(370,820,.78,1,'feliz','#ffd21f')+vaca(710,820,.78,-1,'feliz','#7fd3ff')+flor(300,610,1.2,'#ff9ec4')+flor(780,610,1.2,'#fff');
- o+=coracao(540,600,1.4,'#ff9ec4')+coracao(455,545,.7,'#ffd21f')+coracao(625,530,.6,'#ff9ec4');
- o+='<rect x="90" y="1130" width="900" height="150" rx="36" fill="#fffaf0" stroke="#0a1633" stroke-width="7"/>';
- o+='<text x="540" y="1195" font-family="M" font-weight="900" font-size="44" fill="#0a1633" text-anchor="middle">Juntas, elas ficam bem</text><text x="540" y="1250" font-family="M" font-weight="900" font-size="44" fill="#0a1633" text-anchor="middle">menos <tspan fill="#e8649a">estressadas</tspan> 🥹</text>';
+S.push(`(()=>{let o=defs()+ceu(1)+lua(150,640,50)+montes();
+ o+='<g stroke="'+OL+'" stroke-width="6">'; for(let x=10;x<1080;x+=125) o+='<rect x="'+x+'" y="880" width="30" height="120" rx="8" fill="url(#wood)"/><path d="M'+(x+8)+',900 v80" stroke="#8a5a2c" stroke-width="3"/>'; o+='<rect x="-10" y="900" width="1100" height="22" rx="8" fill="url(#wood)"/><rect x="-10" y="950" width="1100" height="22" rx="8" fill="url(#wood)"/></g>';
+ o+=relva('M-20,985 Q540,940 1100,985 V1360 H-20 Z')+folhas(0,1080,1000,1300,90,2);
+ for(let i=0;i<10;i++) o+=flor((i*109+40)%1040,1020+(i*41)%110,.8,['#ff9ec4','#ffffff','#bfe0ff','#ffe9a0'][i%4]);
+ o+='<circle cx="540" cy="830" r="330" fill="url(#pglow)"/>';
+ o+=vaca(380,780,.68,1,{hr:10,lenco:'#ffd21f'})+vaca(700,780,.68,-1,{hr:10,lenco:'#7fd3ff',coroa:true});
+ o+=coracao(540,600,1.5,PK)+coracao(455,545,.7,YL)+coracao(625,530,.6,PK)+vagalumes(2,9,700,1100);
+ o+=marca()+canto('02')+pill(540,210,'FATO 1',YL,'#0a1633',44,240);
+ o+=fTxt(540,350,'VACAS TÊM',96,'#fff')+fTxt(540,465,'MELHOR AMIGA',104,PK,'middle',16);
+ o+=caixa('Juntas, elas ficam bem','menos <tspan fill="#e8649a">estressadas</tspan>');
  return o;})()`);
-// 3 · FATO 2 — lontras
-S.push(`(()=>{let o=fundo(2)+marca()+canto('03');
- o+=pill(540,210,'FATO 2','#ffd21f','#0a1633',44,240);
- o+=fTxt(540,350,'LONTRAS DORMEM',90,'#fff')+fTxt(540,465,'DE MÃOS DADAS',104,'#ff9ec4','middle',16);
- o+='<g opacity=".9">'+[0,1,2,3,4].map(i=>'<circle cx="'+(200+i*170)+'" cy="'+(620+(i%2)*40)+'" r="'+(4+i%3)+'" fill="#fff"/>').join('')+'</g>';
- o+=lua(880,640,52)+brilho(160,560,.9,'#ffd21f')+agua(900,0)+'<ellipse cx="880" cy="1000" rx="60" ry="10" fill="#fffbe0" opacity=".35"/><ellipse cx="880" cy="1030" rx="40" ry="7" fill="#fffbe0" opacity=".25"/>';
- o+=lontra(320,880,.78,-1,-999)+lontra(760,880,.78,1,-999);
- o+='<ellipse cx="540" cy="956" rx="40" ry="26" fill="#9b6a48" stroke="#0a1633" stroke-width="6"/><path d="M522,946 v18 M540,943 v22 M558,946 v18" stroke="#7a4e32" stroke-width="5" stroke-linecap="round"/>';
- o+=coracao(540,770,1.1,'#ff9ec4');
- o+='<text x="210" y="640" font-family="M" font-weight="900" font-size="54" fill="#bfe9ff" opacity=".8">z</text><text x="250" y="590" font-family="M" font-weight="900" font-size="40" fill="#bfe9ff" opacity=".6">z</text><text x="880" y="640" font-family="M" font-weight="900" font-size="54" fill="#bfe9ff" opacity=".8">z</text>';
- o+='<rect x="90" y="1130" width="900" height="150" rx="36" fill="#fffaf0" stroke="#0a1633" stroke-width="7"/>';
- o+='<text x="540" y="1195" font-family="M" font-weight="900" font-size="44" fill="#0a1633" text-anchor="middle">Pra corrente não separar</text><text x="540" y="1250" font-family="M" font-weight="900" font-size="44" fill="#0a1633" text-anchor="middle">uma da <tspan fill="#e8649a">outra</tspan> 🥹</text>';
+S.push(`(()=>{let o=defs()+ceu(2)+lua(880,620,54)+montes();
+ o+=relva('M-20,880 Q200,850 380,880 L320,920 Q160,930 -20,920 Z')+junco(80,905,.7)+junco(300,900,.55);
+ o+=rio('M-20,900 Q540,860 1100,900 V1360 H-20 Z')+reflexo(880,930)+ondas(20,1060,940,1300,16,3);
+ o+=nenufar(140,1050,.8,'#ff9ec4')+nenufar(960,1080,.7,'#fff')+nenufar(220,1240,.6,null)+nenufar(880,1270,.6,'#ff9ec4');
+ o+=lontra(374,1005,.62,-1)+lontra(706,1005,.62,1)+maos(540,1021,.62)+coracao(540,920,1.2,PK);
+ o+='<text x="190" y="800" font-family="M" font-weight="900" font-size="58" fill="#bfe9ff" opacity=".85">z</text><text x="235" y="750" font-family="M" font-weight="900" font-size="42" fill="#bfe9ff" opacity=".65">z</text><text x="860" y="800" font-family="M" font-weight="900" font-size="58" fill="#bfe9ff" opacity=".85">z</text>';
+ o+=vagalumes(3,8,700,900);
+ o+=marca()+canto('03')+pill(540,210,'FATO 2',YL,'#0a1633',44,240);
+ o+=fTxt(540,350,'LONTRAS DORMEM',90,'#fff')+fTxt(540,465,'DE MÃOS DADAS',104,PK,'middle',16);
+ o+=caixa('Pra corrente não separar','uma da <tspan fill="#e8649a">outra</tspan>');
  return o;})()`);
-// 4 · FINAL — manda pra sua melhor amiga
-S.push(`(()=>{let o=fundo(3)+marca()+canto('04');
- o+=fTxt(540,280,'MANDA PRA SUA',96,'#fff')+fTxt(540,410,'MELHOR AMIGA',120,'#ff9ec4','middle',18);
- o+=grama(960)+'<circle cx="540" cy="820" r="340" fill="url(#gGlow)"/>'+brilho(160,600,1,'#ffd21f')+brilho(930,640,.8,'#fff');
- o+=vaca(400,800,.72,1,'feliz','#ff9ec4')+vaca(680,800,.72,-1,'feliz','#ffd21f')+flor(330,590,1.1,'#fff')+flor(750,590,1.1,'#ff9ec4');
- o+=coracao(540,560,1.5,'#ff9ec4')+coracao(430,520,.8,'#ffd21f')+coracao(650,505,.8,'#ff9ec4')+coracao(540,470,.5,'#ffd21f');
- o+='<g transform="translate(540 1135)"><rect x="-300" y="-50" width="600" height="100" rx="50" fill="#ffd21f" stroke="#0a1633" stroke-width="7"/><path d="M-230,-14 L-180,0 L-230,14 Z M-180,0 L-235,-30 L-215,0 L-235,30 Z" fill="#0a1633"/><text x="30" y="16" font-family="M" font-weight="900" font-size="46" fill="#0a1633" text-anchor="middle">ENVIA AGORA</text></g>';
+S.push(`(()=>{let o=defs()+ceu(3)+lua(900,640,50)+montes();
+ o+=relva('M-20,960 Q280,900 560,950 Q640,970 700,1000 L560,1360 H-20 Z');
+ o+=rio('M560,930 Q720,940 800,975 Q940,1020 1100,1000 V1360 H420 Q540,1200 600,1100 Q620,1030 560,975 Z')+ondas(600,1060,1040,1200,7,4)+nenufar(990,1200,.6,'#ff9ec4');
+ o+=folhas(10,540,990,1110,50,4);
+ for(let i=0;i<6;i++) o+=flor((i*83+30)%480,1000+(i*37)%90,.75,['#ff9ec4','#ffffff','#bfe0ff'][i%3]);
+ o+='<circle cx="290" cy="820" r="280" fill="url(#pglow)"/>'+vaca(210,760,.5,1,{hr:10,lenco:PK})+vaca(400,760,.5,-1,{hr:10,lenco:YL,coroa:true});
+ o+=lontra(700,1060,.42,-1)+lontra(934,1060,.42,1)+maos(817,1071,.42);
+ o+=coracao(305,620,1,PK)+coracao(817,990,.8,PK)+vagalumes(4,8,700,1050);
+ o+=marca()+canto('04');
+ o+=fTxt(540,280,'MANDA PRA SUA',96,'#fff')+fTxt(540,410,'MELHOR AMIGA',120,PK,'middle',18);
+ o+='<g transform="translate(540 1135)"><rect x="-294" y="-42" width="600" height="100" rx="50" fill="#000" opacity=".35"/><rect x="-300" y="-50" width="600" height="100" rx="50" fill="'+YL+'" stroke="#0a1633" stroke-width="7"/><path d="M-230,-14 L-180,0 L-230,14 Z M-180,0 L-235,-30 L-215,0 L-235,30 Z" fill="#0a1633"/><text x="30" y="16" font-family="M" font-weight="900" font-size="46" fill="#0a1633" text-anchor="middle">ENVIA AGORA</text></g>';
  o+=pill(540,1265,'SEGUE: TODO DIA MAIS 2 FATOS','#0a1633','#fff',32,640);
  return o;})()`);
 (async()=>{const b=await chromium.launch();
 for(let i=0;i<S.length;i++){const p=await b.newPage({viewport:{width:1080,height:1350}});
-await p.setContent(`<style>@font-face{font-family:M;src:url(${font});font-weight:900}body{margin:0}</style><svg id=s width=1080 height=1350 viewBox="0 0 1080 1350"></svg><script>window.window=window;${art};${lib}; document.getElementById('s').innerHTML=${S[i]};</script>`);
-await p.evaluate(()=>document.fonts.ready); await p.waitForTimeout(300);
-await p.screenshot({path:`${process.argv[2]}/car01/slide${i+1}.png`}); await p.close();}
+await p.setContent(`<style>@font-face{font-family:M;src:url(${font});font-weight:900}body{margin:0}</style><svg id=s width=1080 height=1350 viewBox="0 0 1080 1350"></svg><script>window.window=window;${art};${lib}; try{document.getElementById('s').innerHTML=${S[i]};}catch(e){document.title='ERR '+e.message}</script>`);
+await p.evaluate(()=>document.fonts.ready); await p.waitForTimeout(400);
+const t=await p.title(); if(t.startsWith('ERR')) console.log('slide',i+1,t);
+await p.screenshot({path:`${process.argv[2]}/car01b/slide${i+1}.png`}); await p.close();}
 await b.close();})();
